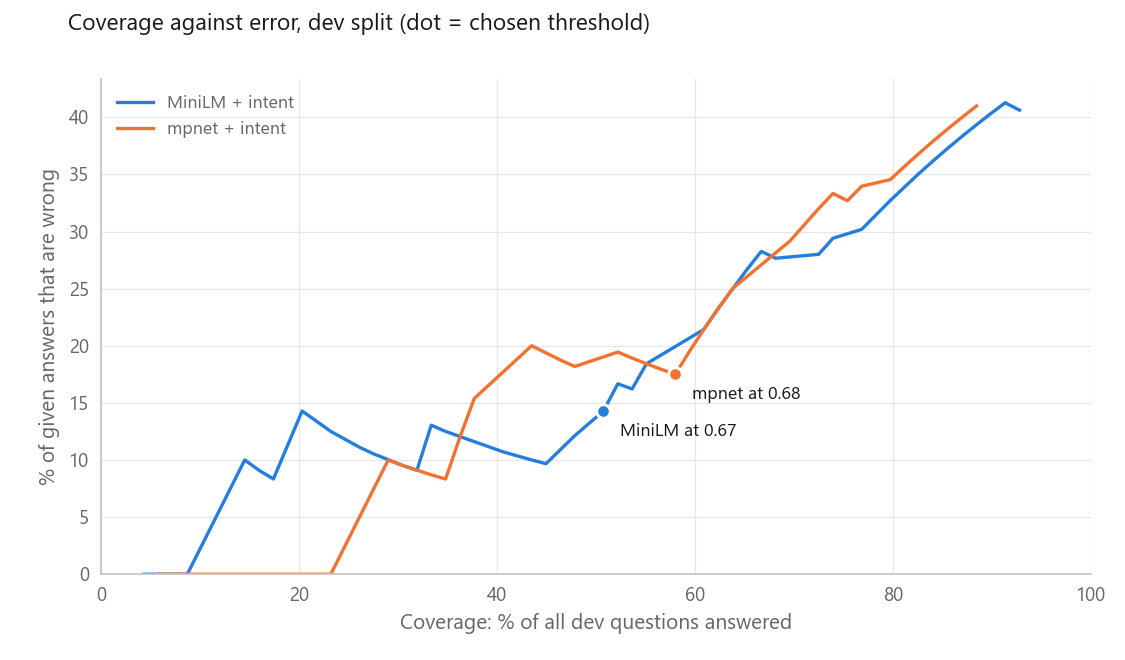
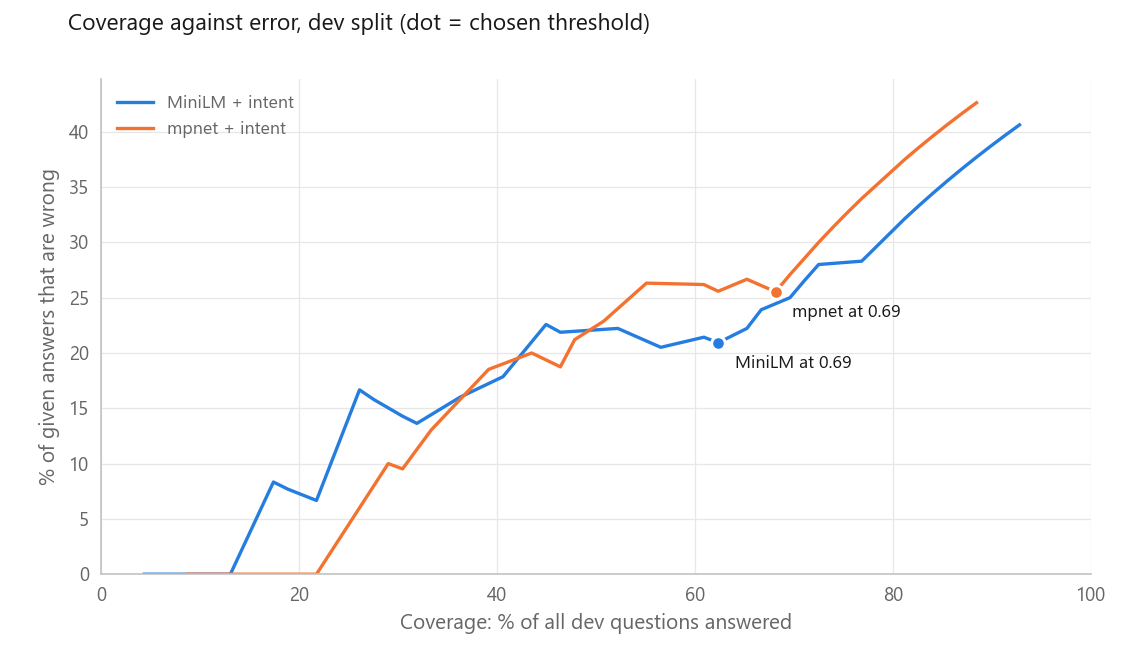
Add Hindi and Hinglish paraphrases and re-tune threshold
- Add 69 paraphrases (knowledge base v0.2) from the dev failures and the
  round 1 error patterns. Every record now has 7 to 10 paraphrases,
  2 or 3 of them in Devanagari. Facts that appeared only in answers
  (mess charges, pin code, full university name) now have questions.
- Check every new paraphrase against the evaluation questions with
  embeddings. The one above 0.90 similarity to a test question was
  rewritten (highest left: 0.885).
- Re-tune the threshold on dev from 0.67 to 0.69. On test, overall
  accuracy goes from 63.8% to 73.9%, right answers from 46.7% to 64.4%,
  and Hindi right answers from 4 to 8 of 15. The wrong-answer rate
  rises from 8.7% to 10.1%.
- Return unrounded scores from the retriever, so the evaluation sweep
  and the live threshold check use the same value. A score rounded up
  to the threshold had made them disagree on one question.
- Add the round 2 error analysis and update the README numbers.

diff --git a/src/retriever.py b/src/retriever.py
@@ -106,7 +106,7 @@ class Retriever:
                     *self.records[record_index].get("also_topics", []),
                 ],
                 "question": self.records[record_index]["question"],
-                "score": round(score, 3),
+                "score": score,
             }
             for record_index, score in ranked
         ]
@@ -116,7 +116,8 @@ class Retriever:
             "intent": intent,
             "intent_confidence": None if confidence is None else round(confidence, 3),
             "topic_filter": topic_filter,
-            "score": round(best_score, 3),
+            # Not rounded: the threshold check below and the evaluation must see the same value.
+            "score": best_score,
             "matches": matches,
         }
 
@@ -163,7 +164,7 @@ if __name__ == "__main__":
             f"Intent: {result['intent']} (confidence {result['intent_confidence']}), "
             f"searched in: {result['topic_filter'] or 'all topics'}"
         )
-    print(f"Answered: {result['answered']} (best score {result['score']})")
+    print(f"Answered: {result['answered']} (best score {result['score']:.3f})")
     print(f"A: {result['answer']}")
     if result["answered"]:
         print(f"Source: {result['source_url']}")

diff --git a/eval/evaluate.py b/eval/evaluate.py
@@ -475,7 +475,7 @@ def write_predictions(pairs, threshold: float, path) -> None:
                          "score", "top3", "intent", "intent_confidence"])
         for q, p in pairs:
             writer.writerow([q["question"], q["language"], q["kind"], q["expected_id"],
-                             outcome(q, p, threshold), got_text(p, threshold), p["score"],
+                             outcome(q, p, threshold), got_text(p, threshold), f"{p['score']:.3f}",
                              " ".join(p["ranked_ids"]), p["intent"], p["intent_confidence"]])
 
 

diff --git a/app.py b/app.py
@@ -74,7 +74,7 @@ def show_message(message: dict) -> None:
                     f"(confidence {result['intent_confidence']:.2f}) · searched in: {searched_in}"
                 )
             st.write(
-                f"Best score: {result['score']} (answers need at least {SIMILARITY_THRESHOLD})"
+                f"Best score: {result['score']:.3f} (answers need at least {SIMILARITY_THRESHOLD})"
             )
             for match in result["matches"]:
                 st.write(f"- {match['score']:.2f} · {match['question']}")

diff --git a/src/config.py b/src/config.py
@@ -14,7 +14,7 @@ TOP_K = 3
 # If the best match scores below this (0 to 1), the bot says it does not know.
 # Tuned in Phase 5 on the dev split of eval/questions.csv (the starting value was 0.50).
 # Re-tune with `python -m eval.evaluate` whenever the knowledge base changes.
-SIMILARITY_THRESHOLD = 0.67
+SIMILARITY_THRESHOLD = 0.69
 
 # Intent classifier settings (starting values; tune in Phase 5, not on the test set).
 USE_INTENT_FILTER = True

diff --git a/eval/results/results.md b/eval/results/results.md
@@ -15,20 +15,20 @@ The threshold for each setup is chosen on the **dev** split. All result tables u
 
 | Setup | Top-1 | Top-3 | MRR |
 |---|---|---|---|
-| MiniLM, no intent | 64.4% | 86.7% | 0.748 |
-| MiniLM + intent | 68.9% | 86.7% | 0.770 |
-| mpnet, no intent | 71.1% | 88.9% | 0.789 |
-| mpnet + intent | 73.3% | 91.1% | 0.811 |
+| MiniLM, no intent | 68.9% | 88.9% | 0.778 |
+| MiniLM + intent | 71.1% | 88.9% | 0.793 |
+| mpnet, no intent | 77.8% | 86.7% | 0.822 |
+| mpnet + intent | 80.0% | 86.7% | 0.833 |
 
 ## Main results (test, at the threshold chosen on dev)
 
 | Setup | Threshold | Right answer (answerable) | Refused (should refuse) | Fallback precision | Wrong-answer rate | Overall accuracy | Time per question |
 |---|---|---|---|---|---|---|---|
-| MiniLM, no intent | 0.67 | 46.7% | 95.8% | 56.1% | 10.1% | 63.8% | 34 ms |
-| MiniLM + intent | 0.67 | 46.7% | 95.8% | 54.8% | 8.7% | 63.8% | 28 ms |
-| mpnet, no intent | 0.68 | 55.6% | 87.5% | 61.8% | 14.5% | 66.7% | 78 ms |
-| mpnet + intent | 0.68 | 57.8% | 87.5% | 60.0% | 11.6% | 68.1% | 74 ms |
-| MiniLM + intent (starting threshold) | 0.50 | 64.4% | 54.2% | 72.2% | 31.9% | 60.9% | 28 ms |
+| MiniLM, no intent | 0.69 | 64.4% | 91.7% | 68.8% | 11.6% | 73.9% | 37 ms |
+| MiniLM + intent | 0.69 | 64.4% | 91.7% | 66.7% | 10.1% | 73.9% | 36 ms |
+| mpnet, no intent | 0.69 | 71.1% | 66.7% | 72.7% | 21.7% | 69.6% | 77 ms |
+| mpnet + intent | 0.69 | 73.3% | 70.8% | 70.8% | 17.4% | 72.5% | 105 ms |
+| MiniLM + intent (starting threshold) | 0.50 | 71.1% | 37.5% | 100.0% | 40.6% | 59.4% | 36 ms |
 
 - **Right answer:** answerable questions that got the correct record.
 - **Refused:** off-topic or not-in-KB questions that got the fallback.
@@ -43,19 +43,19 @@ Model size: MiniLM 118M parameters, mpnet 278M parameters.
 
 | Setup (right answer / refused) | English | Hinglish | Hindi |
 |---|---|---|---|
-| MiniLM, no intent | 80.0% / 100.0% | 33.3% / 90.9% | 26.7% / 100.0% |
-| MiniLM + intent | 80.0% / 100.0% | 33.3% / 90.9% | 26.7% / 100.0% |
-| mpnet, no intent | 80.0% / 100.0% | 33.3% / 72.7% | 53.3% / 100.0% |
-| mpnet + intent | 80.0% / 100.0% | 40.0% / 72.7% | 53.3% / 100.0% |
+| MiniLM, no intent | 93.3% / 100.0% | 46.7% / 81.8% | 53.3% / 100.0% |
+| MiniLM + intent | 93.3% / 100.0% | 46.7% / 81.8% | 53.3% / 100.0% |
+| mpnet, no intent | 93.3% / 87.5% | 53.3% / 54.5% | 66.7% / 60.0% |
+| mpnet + intent | 93.3% / 87.5% | 53.3% / 54.5% | 73.3% / 80.0% |
 
 ## By question kind (test, at the chosen threshold)
 
 | Setup | Direct (right) | Paraphrase (right) | Typo (right) | Off-topic (refused) | Not in KB (refused) |
 |---|---|---|---|---|---|
-| MiniLM, no intent | 57.9% | 42.1% | 28.6% | 100.0% | 92.9% |
-| MiniLM + intent | 57.9% | 42.1% | 28.6% | 100.0% | 92.9% |
-| mpnet, no intent | 73.7% | 42.1% | 42.9% | 100.0% | 78.6% |
-| mpnet + intent | 73.7% | 47.4% | 42.9% | 100.0% | 78.6% |
+| MiniLM, no intent | 73.7% | 63.2% | 42.9% | 90.0% | 92.9% |
+| MiniLM + intent | 73.7% | 63.2% | 42.9% | 90.0% | 92.9% |
+| mpnet, no intent | 78.9% | 63.2% | 71.4% | 90.0% | 50.0% |
+| mpnet + intent | 84.2% | 63.2% | 71.4% | 90.0% | 57.1% |
 
 ## Intent classifier by script (intent dataset test split)
 
@@ -71,56 +71,49 @@ Table version of `threshold_sweep.png`.
 | Threshold | Right answer | Refused | Wrong-answer rate | Overall accuracy |
 |---|---|---|---|---|
 | 0.30 | 84.4% | 20.8% | 37.7% | 62.3% |
-| 0.35 | 82.2% | 20.8% | 37.7% | 60.9% |
-| 0.40 | 82.2% | 25.0% | 34.8% | 62.3% |
-| 0.45 | 82.2% | 37.5% | 30.4% | 66.7% |
-| 0.50 (starting) | 82.2% | 50.0% | 23.2% | 71.0% |
-| 0.55 | 80.0% | 54.2% | 20.3% | 71.0% |
-| 0.60 | 73.3% | 58.3% | 18.8% | 68.1% |
-| 0.65 | 68.9% | 87.5% | 8.7% | 75.4% |
-| 0.67 (chosen) | 66.7% | 91.7% | 7.2% | 75.4% |
-| 0.70 | 62.2% | 95.8% | 4.3% | 73.9% |
-| 0.75 | 44.4% | 100.0% | 2.9% | 63.8% |
-| 0.80 | 31.1% | 100.0% | 2.9% | 55.1% |
-| 0.85 | 13.3% | 100.0% | 0.0% | 43.5% |
+| 0.35 | 84.4% | 20.8% | 37.7% | 62.3% |
+| 0.40 | 84.4% | 20.8% | 37.7% | 62.3% |
+| 0.45 | 84.4% | 29.2% | 34.8% | 65.2% |
+| 0.50 (starting) | 84.4% | 37.5% | 31.9% | 68.1% |
+| 0.55 | 84.4% | 41.7% | 30.4% | 69.6% |
+| 0.60 | 84.4% | 45.8% | 27.5% | 71.0% |
+| 0.65 | 80.0% | 70.8% | 17.4% | 76.8% |
+| 0.69 (chosen) | 75.6% | 83.3% | 13.0% | 78.3% |
+| 0.70 | 73.3% | 83.3% | 13.0% | 76.8% |
+| 0.75 | 51.1% | 87.5% | 7.2% | 63.8% |
+| 0.80 | 35.6% | 95.8% | 4.3% | 56.5% |
+| 0.85 | 20.0% | 100.0% | 0.0% | 47.8% |
 | 0.90 | 6.7% | 100.0% | 0.0% | 39.1% |
 
-## Failures on the test split (MiniLM + intent, threshold 0.67)
+## Failures on the test split (MiniLM + intent, threshold 0.69)
 
 Each failure is classified by hand in `eval/error_analysis.md`.
 
 | Question | Lang | Kind | Expected | Got | Score | Intent |
 |---|---|---|---|---|---|---|
-| cse btech krne me har sem kitna paisa lagta hai | hinglish | paraphrase | fee_btech_cse_2026 | fallback (low score; top was contact_address) | 0.372 | hostel 0.33 |
-| what will i pay per semester for computer engineering | en | paraphrase | fee_btech_cse_2026 | fallback (low score; top was fee_btech_cse_2026) | 0.642 | fees 0.89 |
-| सीएसई बीटेक का शुल्क कितना है | hi | paraphrase | fee_btech_cse_2026 | fallback (low score; top was fee_btech_cse_2026) | 0.581 | fees 0.83 |
-| काउंसलिंग फीस कितनी है | hi | direct | fee_registration_2026 | fallback (low score; top was hostel_fees_2026) | 0.312 | fees 0.37 |
+| cse btech krne me har sem kitna paisa lagta hai | hinglish | paraphrase | fee_btech_cse_2026 | fallback (low score; top was fee_library_sports_2026) | 0.680 | hostel 0.33 |
+| सीएसई बीटेक का शुल्क कितना है | hi | paraphrase | fee_btech_cse_2026 | fallback (low score; top was fee_btech_cse_2026) | 0.597 | fees 0.83 |
+| काउंसलिंग फीस कितनी है | hi | direct | fee_registration_2026 | fallback (low score; top was hostel_fees_2026) | 0.658 | fees 0.37 |
 | securty fee wapis milti hai ya nahi | hinglish | typo | fee_security_2026 | fee_registration_2026 | 0.702 | fees 0.77 |
-| library aur sports ke liye alag se paise dene padte hai kya | hinglish | paraphrase | fee_library_sports_2026 | fallback (low score; top was contact_admissions) | 0.553 | other 0.58 |
-| लाइब्रेरी फीस हर सेमेस्टर कितनी लगती है | hi | direct | fee_library_sports_2026 | fallback (low score; top was fee_library_sports_2026) | 0.554 | fees 0.81 |
+| library aur sports ke liye alag se paise dene padte hai kya | hinglish | paraphrase | fee_library_sports_2026 | fallback (low score; top was contact_address) | 0.683 | other 0.58 |
 | hostel aur mess ka kharcha kitna aata hai saal ka | hinglish | paraphrase | hostel_fees_2026 | contact_hostel | 0.782 | hostel 0.73 |
-| how much are the mess charges per year | en | direct | hostel_fees_2026 | fallback (low score; top was fee_library_sports_2026) | 0.512 | fees 0.45 |
+| how much are the mess charges per year | en | direct | hostel_fees_2026 | fallback (low score; top was fee_security_2026) | 0.658 | fees 0.45 |
 | डबल रूम का सालाना किराया कितना है | hi | direct | hostel_fees_2026 | hostel_room_type_girls | 0.780 | hostel 0.92 |
-| ladkiyon ke liye kitne hostal hai | hinglish | typo | hostel_count_2026 | fallback (low score; top was hostel_count_2026) | 0.309 | hostel 0.54 |
-| लड़कियों के कितने हॉस्टल हैं | hi | direct | hostel_count_2026 | fallback (low score; top was hostel_count_2026) | 0.536 | hostel 0.83 |
-| छात्राओं को दूसरे साल से सिंगल रूम मिलता है क्या | hi | paraphrase | hostel_room_type_girls | fallback (low score; top was hostel_room_type_girls) | 0.638 | hostel 0.91 |
-| हॉस्टल में कमरा पाने के लिए क्या करना होगा | hi | direct | hostel_allotment | fallback (low score; top was hostel_room_type_girls) | 0.572 | hostel 0.97 |
-| abhi admission le sakte hai kya gbu me | hinglish | paraphrase | admissions_status_2026 | fallback (low score; top was admissions_status_2026) | 0.644 | admissions 0.53 |
-| इस साल दाखिला मिल सकता है क्या | hi | paraphrase | admissions_status_2026 | fallback (low score; top was admissions_status_2026) | 0.497 | admissions 0.58 |
+| ladkiyon ke liye kitne hostal hai | hinglish | typo | hostel_count_2026 | fallback (low score; top was hostel_allotment) | 0.623 | hostel 0.54 |
+| हॉस्टल में कमरा पाने के लिए क्या करना होगा | hi | direct | hostel_allotment | hostel_fees_2026 | 0.720 | hostel 0.97 |
+| हॉस्टल ऑफिस का ईमेल पता क्या है | hi | direct | contact_hostel | contact_admissions | 0.842 | contacts 0.99 |
+| इस साल दाखिला मिल सकता है क्या | hi | paraphrase | admissions_status_2026 | fallback (low score; top was admissions_status_2026) | 0.506 | admissions 0.58 |
 | admisson office ka phone no. | hinglish | typo | contact_admissions | fallback (low score; top was contact_hostel) | 0.552 | contacts 0.88 |
-| videshi student hu admission ke liye kisse baat karu | hinglish | paraphrase | contact_international | contact_admissions | 0.686 | contacts 0.44 |
-| इंटरनेशनल अफेयर्स का नंबर बताइए | hi | direct | contact_international | fallback (low score; top was contact_hostel) | 0.622 | contacts 0.89 |
-| What is the full address of Gautam Buddha University? | en | direct | contact_address | fallback (low score; top was contact_address) | 0.574 | contacts 0.95 |
-| gbu ka adress bata do | hinglish | typo | contact_address | contact_hostel | 0.689 | contacts 0.99 |
-| विश्वविद्यालय का पिन कोड क्या है | hi | paraphrase | contact_address | fallback (low score; top was contact_admissions) | 0.442 | contacts 0.62 |
-| sc/st scholarshp kitni hai | hinglish | typo | scholarship_sc_st | fallback (low score; top was scholarship_sc_st) | 0.655 | scholarships 0.27 |
-| मेधावी छात्रों के लिए कोई स्कॉलरशिप है क्या | hi | paraphrase | scholarship_general | fallback (low score; top was scholarship_sc_st) | 0.661 | scholarships 0.90 |
+| videshi student hu admission ke liye kisse baat karu | hinglish | paraphrase | contact_international | fallback (low score; top was contact_admissions) | 0.686 | contacts 0.44 |
+| gbu ka adress bata do | hinglish | typo | contact_address | fallback (low score; top was contact_hostel) | 0.689 | contacts 0.99 |
+| विश्वविद्यालय का पिन कोड क्या है | hi | paraphrase | contact_address | fallback (low score; top was contact_address) | 0.652 | contacts 0.62 |
+| bhai gf ko kya gift du | hinglish | off_topic | none | contact_address | 0.705 | other 0.43 |
 | law ki fees kitni hai gbu me | hinglish | not_in_kb | none | fee_security_2026 | 0.699 | fees 0.80 |
 
 ## Checks
 
 - Questions overlapping the knowledge base or intent data: 0 (checked before running).
 - Live search with the chosen threshold matched the sweep for every test question.
-- The app (`src/config.py`) uses threshold 0.67; the dev-tuned value for MiniLM + intent is 0.67.
+- The app (`src/config.py`) uses threshold 0.69; the dev-tuned value for MiniLM + intent is 0.69.
 
 Charts: `threshold_sweep.png`, `coverage_vs_error.png`.

diff --git a/eval/error_analysis.md b/eval/error_analysis.md
@@ -1,7 +1,50 @@
 # Error analysis (Phase 5)
 
-Setup: MiniLM + intent classifier, threshold 0.67 (the app's current settings), **test** split.
-Numbers come from `eval/results/results.md`. Written by hand, so update it when the results change.
+Setup: MiniLM + intent classifier on the **test** split. Numbers come from `eval/results/results.md`.
+This file is written by hand, so update it when the results change.
+
+There are two rounds:
+
+- **Round 2** is the current state, after adding Hindi and Hinglish paraphrases.
+- **Round 1** is the first evaluation, which led to those paraphrases.
+
+## Round 2: after adding paraphrases (knowledge base v0.2, threshold 0.69)
+
+The 69 new paraphrases came from the dev failures and the general patterns found in round 1. Every record got 2 or 3 Devanagari paraphrases, and facts that were only in answers got questions too.
+
+Before adding them, every new paraphrase was compared with the evaluation questions using embeddings. The one paraphrase above 0.90 cosine similarity to a test question was rewritten. The highest similarity left to any test question is 0.885.
+
+| Test split | Round 1 (0.67) | Round 2 (0.69) |
+|---|---|---|
+| Right answer (answerable) | 46.7% | **64.4%** |
+| Refused (should refuse) | 95.8% | 91.7% |
+| Wrong-answer rate | 8.7% | 10.1% |
+| Overall accuracy | 63.8% | **73.9%** |
+| Hindi right answers | 4 / 15 | **8 / 15** |
+| Hinglish right answers | 5 / 15 | 7 / 15 |
+| English right answers | 12 / 15 | 14 / 15 |
+
+Nine round 1 failures are now answered correctly. Two questions that worked in round 1 now fail:
+
+- **हॉस्टल ऑफिस का ईमेल पता क्या है** now gets the admissions contact (0.842). The new paraphrase "एडमिशन ऑफिस का ईमेल" differs only in the office name, and the model barely separates the two. `contact_hostel` has no Hindi "email" paraphrase, because the obvious one was a near-copy of this test question and was left out.
+- **bhai gf ko kya gift du** (off-topic) now gets the address record (0.705). The intent classifier said "other" with only 0.43 confidence, below the 0.6 needed to refuse.
+
+The round 2 failures (18) by cause:
+
+| Cause | Count | Examples |
+|---|---|---|
+| Paraphrase gap | 6 | "how much are the mess charges per year", "काउंसलिंग फीस कितनी है" (both still fail even with the new mess and counselling paraphrases) |
+| Typo | 4 | "securty", "hostal", "admisson", "adress" |
+| Right record, score below threshold | 3 | "इस साल दाखिला मिल सकता है क्या" (0.506) |
+| Ambiguous question | 2 | "डबल रूम का सालाना किराया", "videshi student hu ..." |
+| Should refuse, but answered | 2 | "law ki fees ..." (missing data), "bhai gf ko kya gift du" (off-topic) |
+| Confused with a similar new paraphrase | 1 | "हॉस्टल ऑफिस का ईमेल पता" |
+
+**Is the test set still fair?** Mostly, but not completely. The patterns behind the new paraphrases, such as "add Hindi" and "add mess charges", were partly noticed in round 1 test failures, so the round 2 test numbers may be slightly optimistic. No test question was copied, and the near-copy check above passed. The two targeted examples, mess charges and counselling fee, still fail, which suggests the gain comes from broader coverage, not from matching test questions. For a clean final number, write a small new held-out set before the report.
+
+**Embedding models after round 2:** mpnet now gets more right answers (73.3% against 64.4%), but it also answers more questions it should refuse (17.4% wrong against 10.1%). Its overall accuracy is 72.5% against 73.9% for MiniLM. MiniLM stays: it is as accurate overall, safer, and about 2.5 times faster.
+
+## Round 1: first evaluation (knowledge base v0.1, threshold 0.67)
 
 The bot failed on 25 of 69 test questions:
 
@@ -9,9 +52,9 @@ The bot failed on 25 of 69 test questions:
 - 5 answerable questions got the wrong record.
 - 1 question that should be refused got an answer.
 
-## Failures by cause
+### Failures by cause
 
-### 1. Right record found, but the score was below the threshold (10)
+#### 1. Right record found, but the score was below the threshold (10)
 
 The correct record was ranked first, but the similarity was under 0.67, so the bot refused.
 A lower threshold would answer these, but it would also give many more wrong answers (see the sweep table).
@@ -29,7 +72,7 @@ A lower threshold would answer these, but it would also give many more wrong ans
 | What is the full address of Gautam Buddha University? | 0.574 |
 | sc/st scholarshp kitni hai (typo) | 0.655 |
 
-### 2. Paraphrase gap: no knowledge base question is worded like this (10)
+#### 2. Paraphrase gap: no knowledge base question is worded like this (10)
 
 A different record was ranked first, because none of the correct record's questions are close in wording.
 
@@ -46,27 +89,27 @@ A different record was ranked first, because none of the correct record's questi
 | मेधावी छात्रों के लिए कोई स्कॉलरशिप है क्या | fallback (top: scholarship_sc_st) | "मेधावी" (meritorious) is not in the knowledge base |
 | hostel aur mess ka kharcha kitna aata hai saal ka | **contact_hostel (0.782)** | Wrong answer. Same "mess" gap as above |
 
-### 3. Typo (2)
+#### 3. Typo (2)
 
 | Question | Got |
 |---|---|
 | securty fee wapis milti hai ya nahi | **fee_registration_2026 (0.702)** |
 | gbu ka adress bata do | **contact_hostel (0.689)** |
 
-### 4. Ambiguous question (2)
+#### 4. Ambiguous question (2)
 
 | Question | Got | Note |
 |---|---|---|
 | डबल रूम का सालाना किराया कितना है | **hostel_room_type_girls (0.780)** | Asks for rent, but "double room" is the wording of the room-type record |
 | videshi student hu admission ke liye kisse baat karu | **contact_admissions (0.686)** | The admissions office is a partly reasonable answer; international affairs is better |
 
-### 5. Missing data (1)
+#### 5. Missing data (1)
 
 | Question | Got | Note |
 |---|---|---|
 | law ki fees kitni hai gbu me | **fee_security_2026 (0.699)** | The knowledge base has no law fee. "... fees kitni hai" matches the generic fee paraphrases |
 
-## Main findings
+### Main findings
 
 1. **Hindi is the weakest language.** 11 of the 15 Hindi test questions failed. The knowledge base has only one Devanagari paraphrase in total. The intent classifier is not the problem: it routes Hindi questions to the right topic, often with 0.8 to 0.97 confidence. The gap is in the knowledge base.
 2. **Some facts are in the answers but not in the questions.** Examples are mess charges, the pin code, and the full university name, since the knowledge base says only "GBU". Retrieval compares only against questions and paraphrases, never against the answer text.
@@ -74,13 +117,13 @@ A different record was ranked first, because none of the correct record's questi
 4. **One threshold cannot separate right from wrong well.** On test, a threshold of 0.50 gives 64.4% right answers with a 31.9% wrong-answer rate. A threshold of 0.67 gives 46.7% right with 8.7% wrong. For a fees and admissions bot, a wrong answer is worse than a fallback, so 0.67 was kept.
 5. **The bigger model helps Hindi.** mpnet answered 8 of 15 Hindi test questions correctly, against 4 of 15 for MiniLM. Its overall accuracy is higher by only 3 questions, which is within noise, and it is about 2.4 times bigger and slower.
 
-## How sure are these numbers?
+### How sure are these numbers?
 
 Each split has 69 questions, 45 of them answerable. One question equals about 1.4 points of overall accuracy, or 2.2 points of answer accuracy. Differences of 2 or 3 questions, such as with and without intent, or MiniLM against mpnet overall, are within noise.
 
 The dev score at the chosen threshold was 75.4%, and the test score was 63.8%. The tuned value looks better on the data it was tuned on, which is why only test numbers are reported.
 
-## Next steps
+### Next steps (done in round 2)
 
 These fixes should come from **dev** failures and general patterns. Never copy test questions into the knowledge base, or the test numbers stop being honest.
 

diff --git a/README.md b/README.md
@@ -45,13 +45,13 @@ python -m eval.evaluate
 
 This asks the bot 138 unseen questions from `eval/questions.csv` in English, Hinglish, and Hindi. 48 of them should get the fallback. The threshold is tuned on the dev split, and results are reported on the test split. Results are in [eval/results/results.md](eval/results/results.md), and the failure analysis is in [eval/error_analysis.md](eval/error_analysis.md).
 
-Test split, current app settings (MiniLM + intent classifier, threshold 0.67):
+Test split, current app settings (MiniLM + intent classifier, threshold 0.69, knowledge base v0.2):
 
 | Right answer (answerable) | Refused (should refuse) | Wrong-answer rate | Overall accuracy |
 |---|---|---|---|
-| 46.7% | 95.8% | 8.7% | 63.8% |
+| 64.4% | 91.7% | 10.1% | 73.9% |
 
-Hindi questions are the weakest part (4 of 15 right), because the knowledge base has almost no Hindi paraphrases.
+Adding Hindi and Hinglish paraphrases raised overall accuracy from 63.8% to 73.9%, and Hindi right answers from 4 to 8 of 15. Hinglish (7 of 15) and typos are now the weakest parts.
 
 ## Data sources
 
